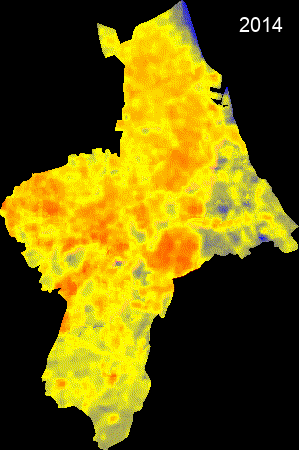
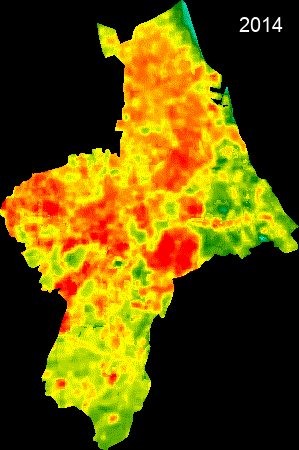
Menambahkan fitur LST pada page interactive map

diff --git a/pages/1_🗺_Interactive Map.py b/pages/1_🗺_Interactive Map.py
@@ -95,7 +95,7 @@ if submit or st.session_state['pass']:
             # Band Ratio
             ratio_container = st.container()
             ratio_all = st.checkbox('All band')
-            ratio_options = ['NDVI','NDBI','NDWI']
+            ratio_options = ['NDVI','NDBI','NDWI','LST']
 
             if ratio_all:
                 ratio_container.multiselect(
@@ -144,6 +144,8 @@ if submit or st.session_state['pass']:
             band_ratio.append('NDBI')
         elif item == 'NDWI':
             band_ratio.append('NDWI')
+        elif item == 'LST':
+            band_ratio.append('LST')
 
     Map = geemap.Map(
         # location=[latitude, longitude],
@@ -178,6 +180,8 @@ if submit or st.session_state['pass']:
                 Map.addLayer(data, {'min':-1, 'max':1, 'bands':item}, item, True)
             elif item == 'NDBI':
                 Map.addLayer(data, {'min':-1, 'max':1, 'bands':item}, item, True)
+            elif item == 'LST':
+                Map.addLayer(data, {'min':20, 'max':40, 'bands':item, 'palette':['blue', 'cyan', 'green', 'yellow', 'red']}, item, True)
 
         Map.centerObject(ee.Geometry.Point([longitude, latitude]), zoom=11)
         Map.to_streamlit(height=480)

diff --git a/pages/2_🌡_Land Surface Temperature.py b/pages/2_🌡_Land Surface Temperature.py
@@ -158,9 +158,9 @@ def result(latitude, longitude, site, site_buffer):
                     'region': roi,
                     'framesPerSecond': 2,
                     'crs': 'EPSG:3857',
-                    'min': 25,
-                    'max': 45,
-                    'palette': ['blue', 'yellow', 'red']
+                    'min': 20,
+                    'max': 40,
+                    'palette': ['blue', 'cyan', 'green', 'yellow', 'red']
                 }
 
                 geemap.download_ee_video(reduce_yearly, videoArgs, 'Data/Pictures/lst.gif')
